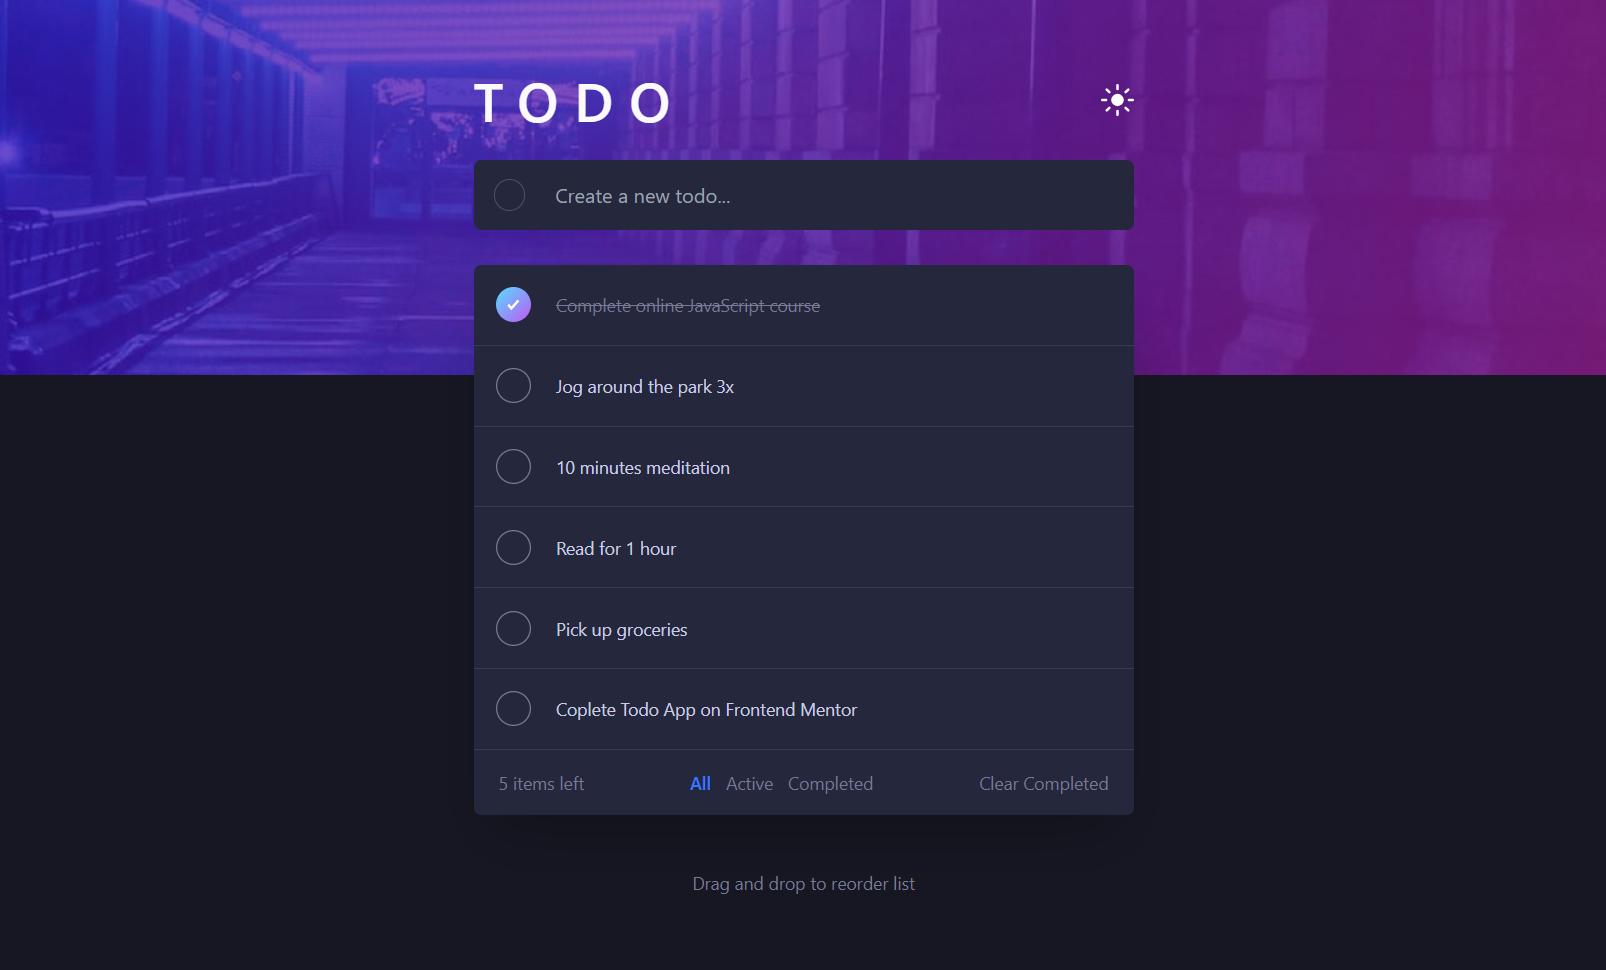
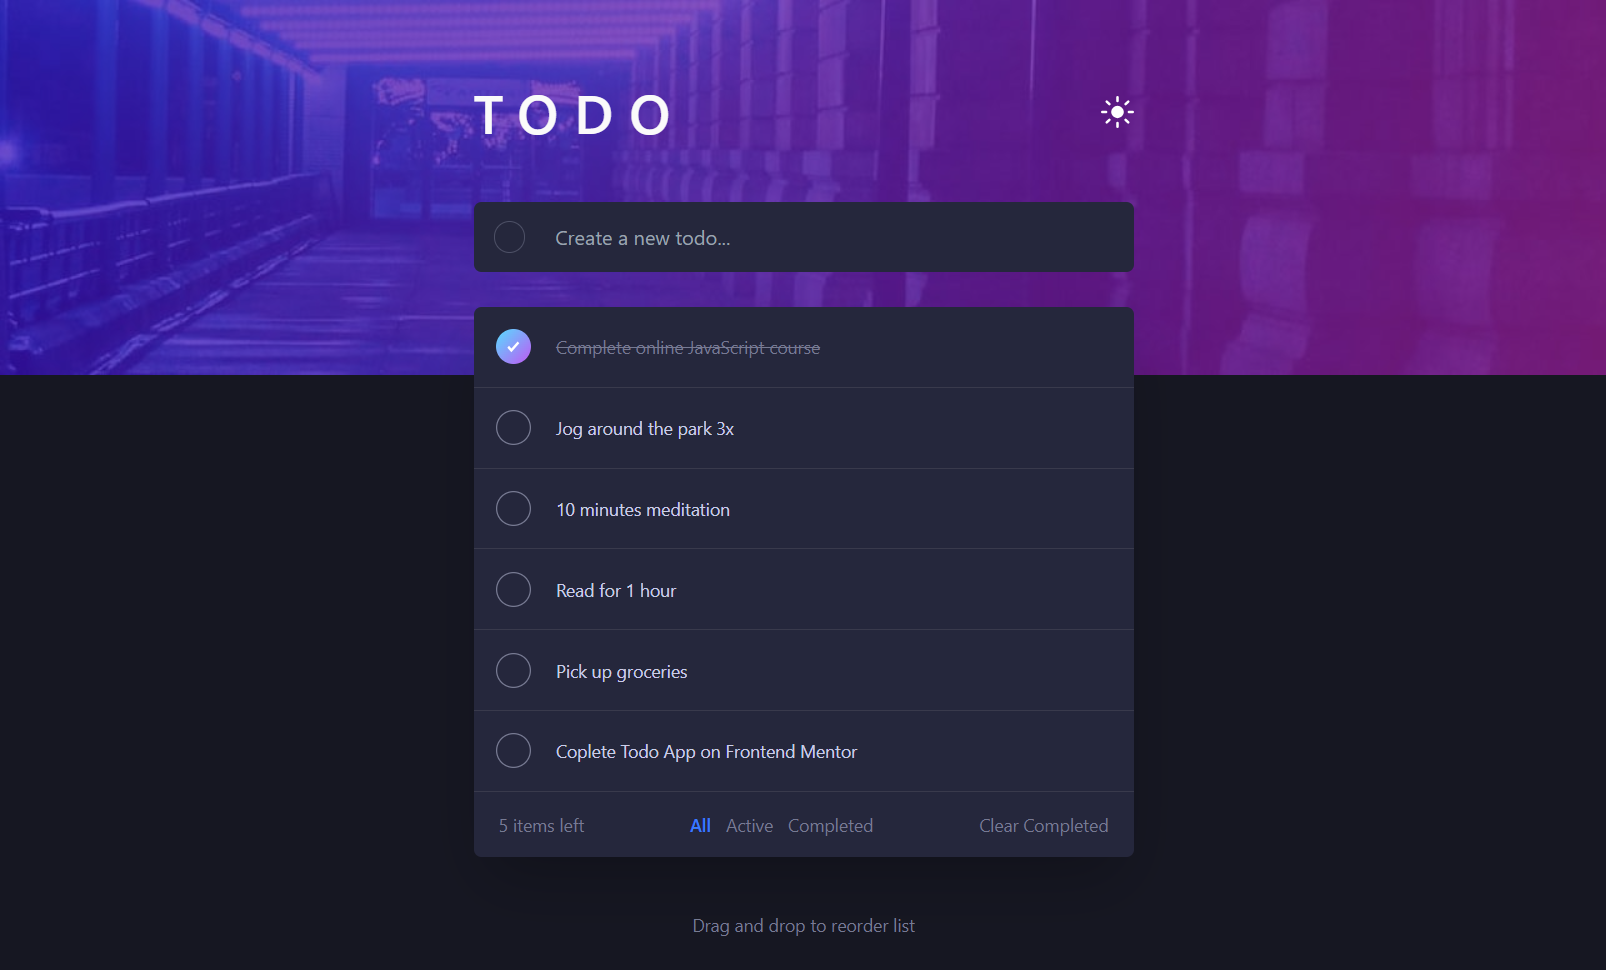
update spacing and links

diff --git a/src/components/TodoList.jsx b/src/components/TodoList.jsx
@@ -81,15 +81,13 @@ const TodoList = ({
                   className="flex-1 cursor-pointer flex items-center gap-5 dark:text-dark-LightGrayishBlue"
                   htmlFor={todo.id}
                   tabIndex="0"
-                  role="checkbox"
-                  aria-checked={todo.complete}
                   onKeyDown={(e) => {
                     if (e.key === " " || e.key === "Enter") {
                       toggleComplete(todo.id);
                     }
                   }}
                 >
-                  <div
+                  <span
                     className={`${
                       todo.complete && "bg-Check "
                     } relative w-7 h-7 rounded-full flex justify-center items-center`}
@@ -112,7 +110,7 @@ const TodoList = ({
                     </svg>
 
                     {todo.complete && <img src={check} alt="" />}
-                  </div>
+                  </span>
                   <span
                     className={`sm:text-sm text-xs ${
                       todo.complete && "line-through text-darkGrayishBlue"

diff --git a/src/App.jsx b/src/App.jsx
@@ -48,8 +48,8 @@ function App() {
   return (
     <ThemeProvider>
       <div className={`max-w-[1440px] mx-auto container min-h-full`}>
-        <div className="max-w-[33rem] mx-auto sm:px-0 px-4 pt-8 sm:pt-16">
-          <Header className="mb-8" />
+        <div className="max-w-[33rem] mx-auto sm:px-0 px-4 pt-8 sm:pt-[4.6rem]">
+          <Header className="sm:mb-14 mb-8" />
           <TodoForm addTodo={addTodo} />
           <TodoList
             className="mt-7"

diff --git a/src/components/Header.jsx b/src/components/Header.jsx
@@ -13,7 +13,7 @@ const Header = (props) => {
         TODO
       </h1>
 
-      <button onClick={() => toggleTheme()}>
+      <button onClick={() => toggleTheme()} aria-label="Toggle theme">
         <img src={theme == "light" ? moon : sun} alt="" />
       </button>
     </header>

diff --git a/README.md b/README.md
@@ -35,8 +35,8 @@ Users should be able to:
 
 ### Links
 
-- Solution URL: [Add solution URL here]()
-- Live Site URL: [Add live site URL here]()
+- Solution URL: [here](https://www.frontendmentor.io/solutions/react-todo-app-tailwindcss-dG-h0RQA14)
+- Live Site URL: [here](https://frontend-mentor-todo-app-sigma.vercel.app/)
 
 ## My process
 
